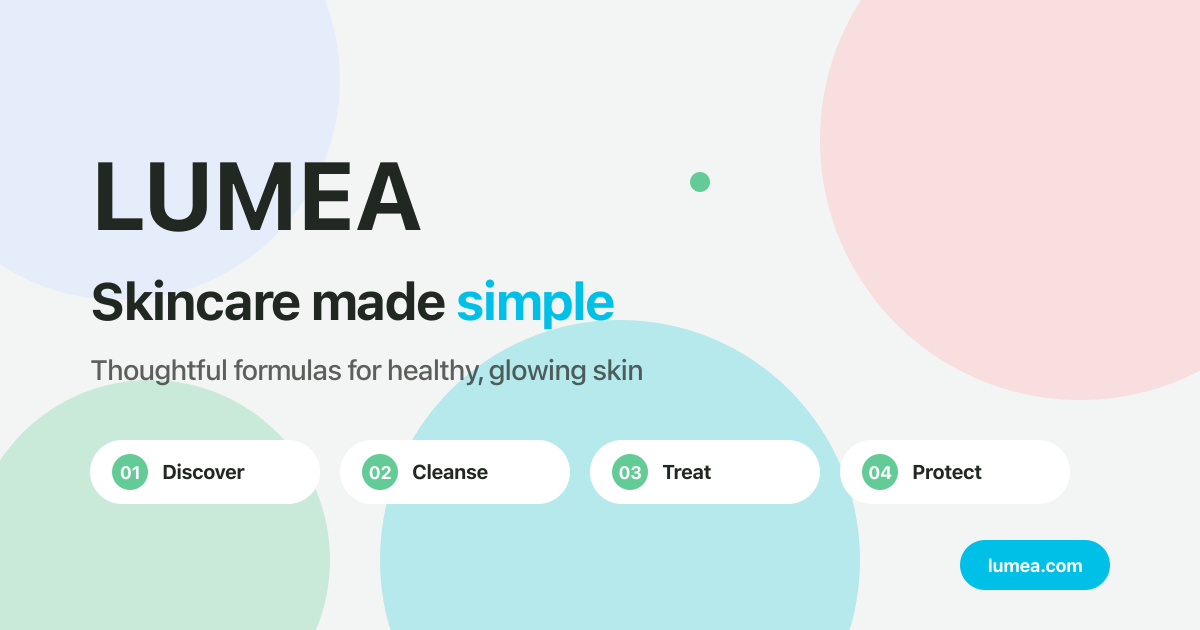
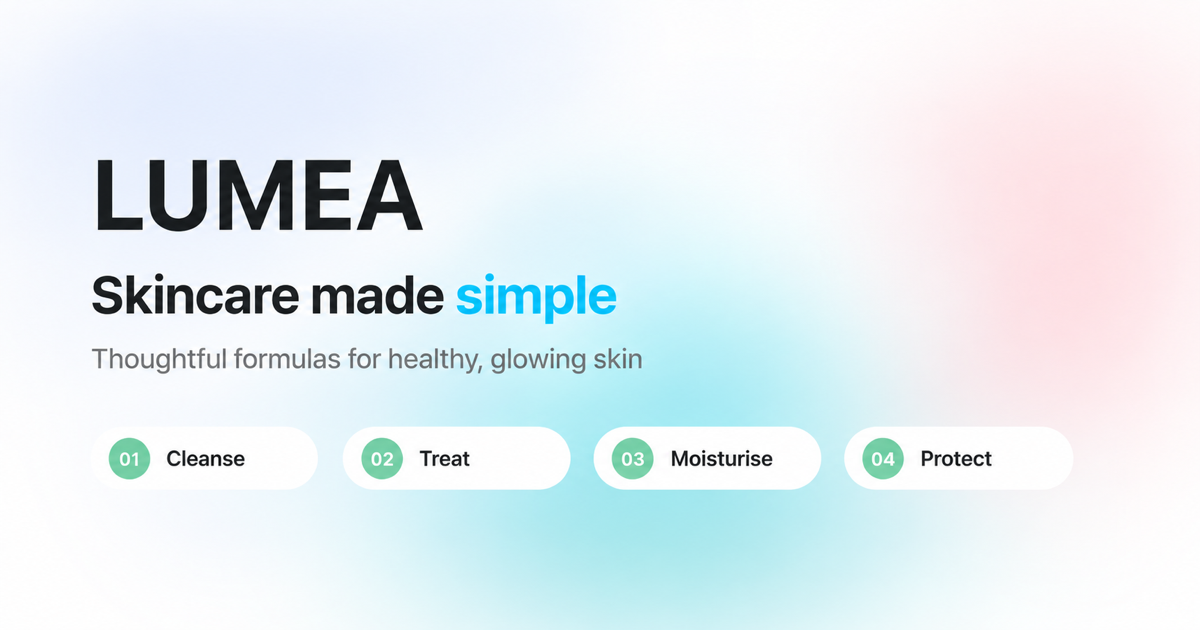
feat: зображення карток кроків і прев'ю для соцмереж
Чотири SVG-заглушки замінено на підготовані webp.
Оновлено og-image: кроки тепер відповідають макету.

diff --git a/apps/web/src/components/steps/stepsData.ts b/apps/web/src/components/steps/stepsData.ts
@@ -16,7 +16,7 @@ export const STEPS: readonly Step[] = [
     description:
       'Gently remove makeup, SPF and daily impurities without stripping your skin.',
     cta: 'Shop cleansers',
-    image: '/images/step-01.svg',
+    image: '/images/01.webp',
     background: 'bg-(--color-surface)',
   },
   {
@@ -26,7 +26,7 @@ export const STEPS: readonly Step[] = [
     description:
       'Serums and treatments deliver targeted ingredients to help with dryness, dullness, texture and blemishes.',
     cta: 'Shop treatments',
-    image: '/images/step-02.svg',
+    image: '/images/02.webp',
     background: 'bg-[linear-gradient(135deg,#e5f7ed,#92dbb6)]',
   },
   {
@@ -36,7 +36,7 @@ export const STEPS: readonly Step[] = [
     description:
       'Moisturisers help strengthen the skin barrier, lock in hydration and leave skin soft and balanced.',
     cta: 'Shop moisturisers',
-    image: '/images/step-03.svg',
+    image: '/images/03.webp',
     background: 'bg-(--color-surface)',
   },
   {
@@ -46,7 +46,7 @@ export const STEPS: readonly Step[] = [
     description:
       'Daily SPF helps protect your skin from UV damage and keeps it looking healthy every day.',
     cta: 'Shop SPF',
-    image: '/images/step-04.svg',
+    image: '/images/04.webp',
     background: 'bg-[radial-gradient(circle_at_50%_50%,#fecbe4,#f5dfe3)]',
   },
 ];

diff --git a/apps/web/src/app/layout.tsx b/apps/web/src/app/layout.tsx
@@ -23,7 +23,7 @@ export const metadata: Metadata = {
     siteName: "LUMEA",
     images: [
       {
-        url: "/og-image.png",
+        url: "/og-image.png?v=1",
         width: 1200,
         height: 630,
         alt: "LUMEA — Skincare made simple",
